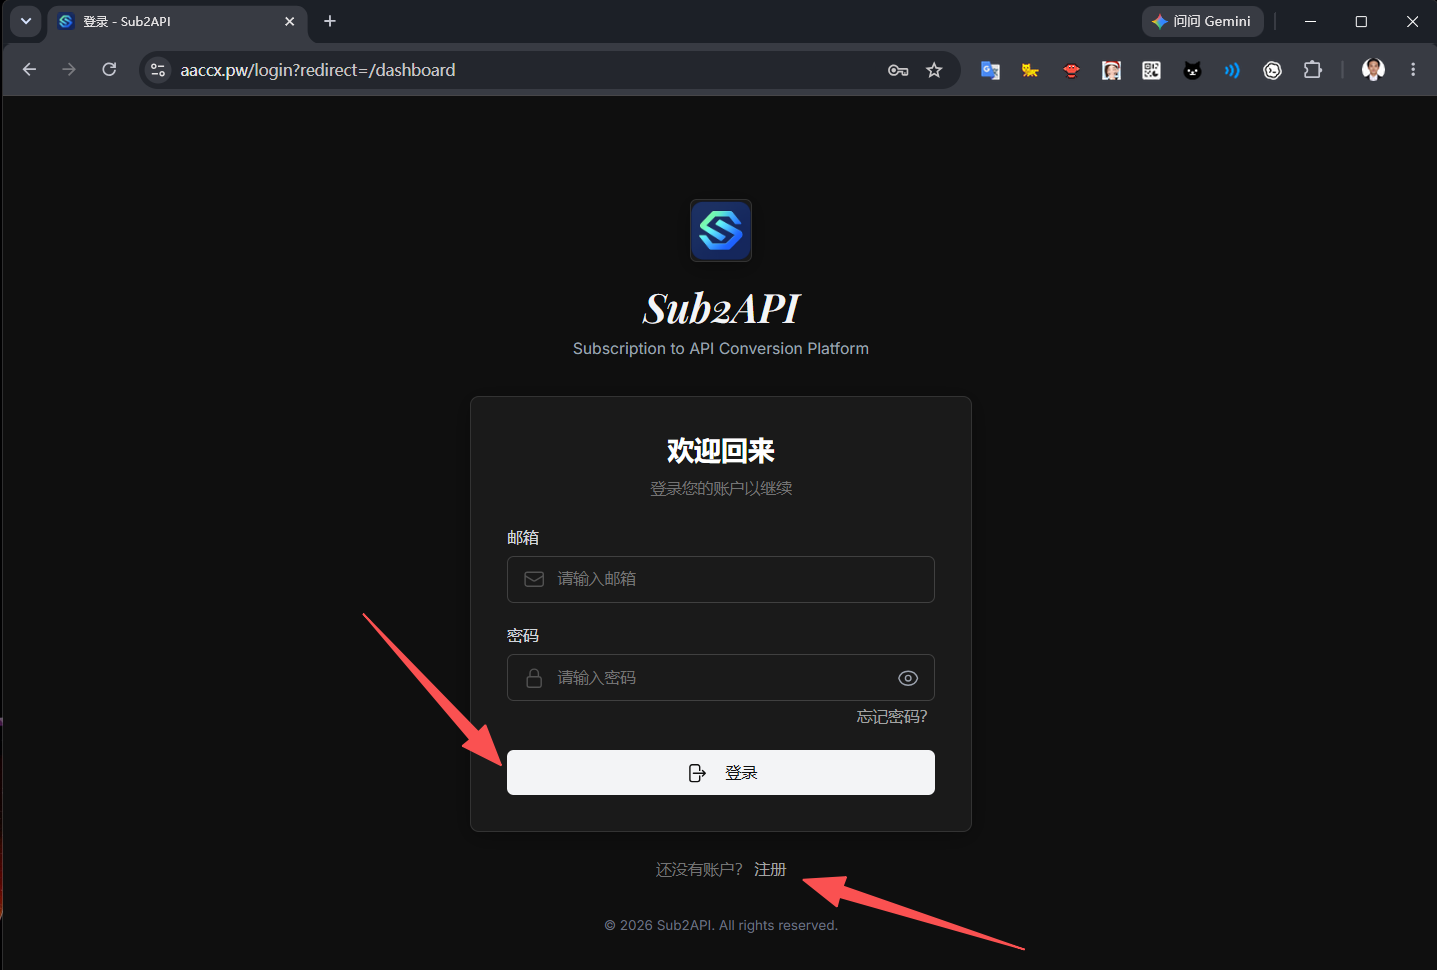
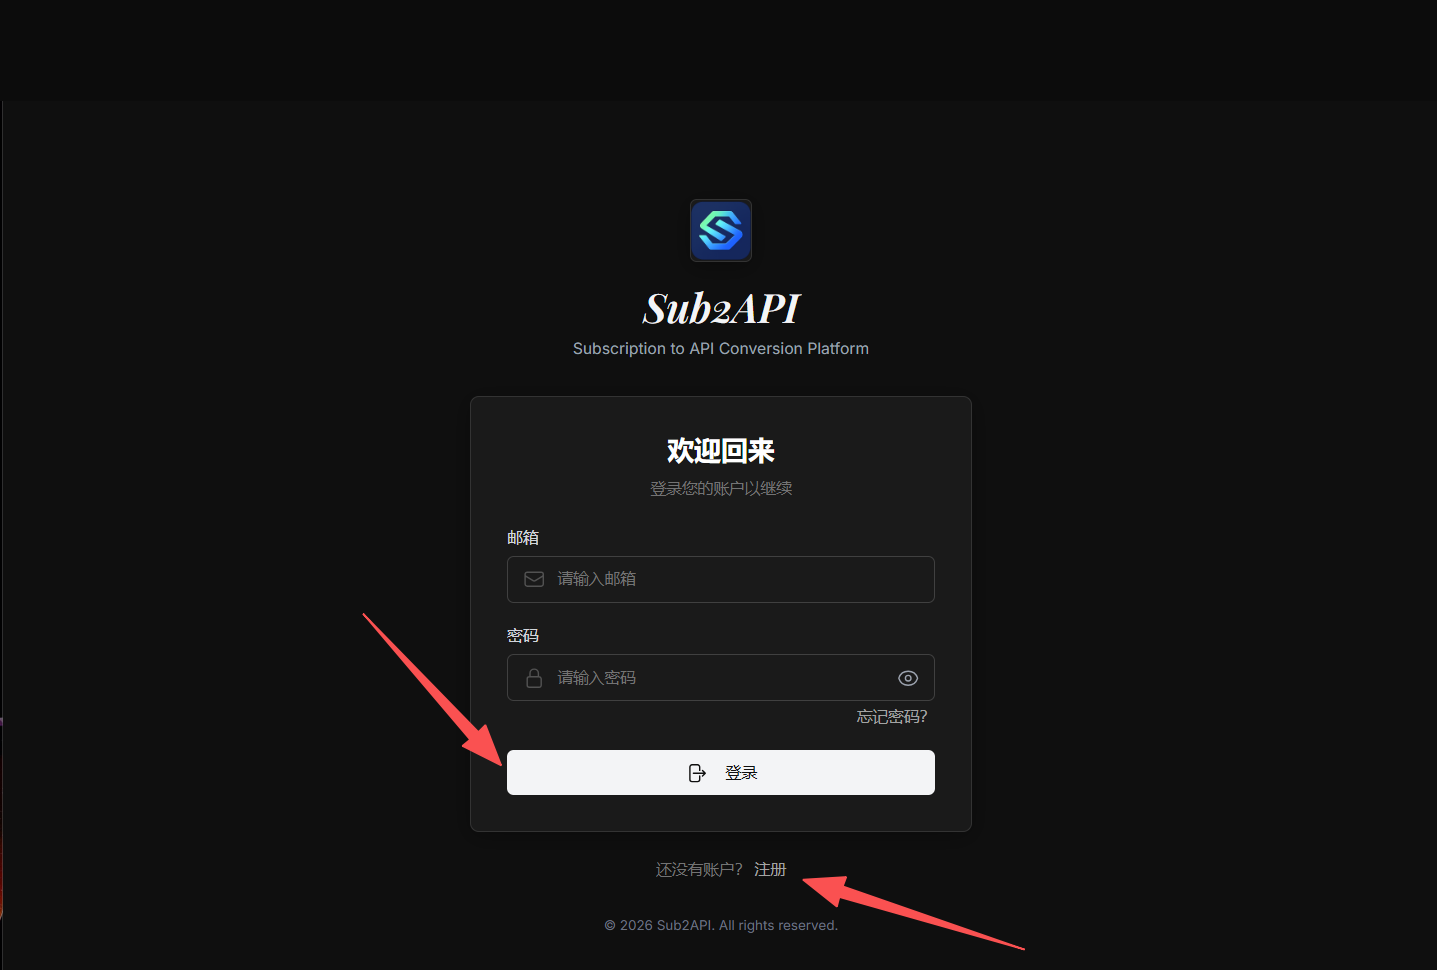
docs: 记录使用教程分支 review

Changed region(s): [[0.0, 0.0, 1.0, 0.1237]]

diff --git a/docs/ai/context/20260621-155228-user-usage-guide-design-plan_CN.md b/docs/ai/context/20260621-155228-user-usage-guide-design-plan_CN.md
@@ -1,0 +1,62 @@
+# 用户面板使用方法页面设计与计划
+
+## 背景
+
+用户希望在登录后的普通用户左侧导航栏增加「使用方法」栏目，用于在 `aaccx.pw` 的 Sub2API 用户面板中展示 8 个使用步骤和 10 张截图。
+
+## 修改边界
+
+- 只修改前端用户面板展示、路由、导航和相关前端测试。
+- 不修改后端接口、数据库、鉴权、支付、订单、订阅、兑换码、API Key 生成或计费逻辑。
+- 不在管理员页面或管理员侧栏的「我的账户」区域增加入口。
+- 页面不新增操作按钮，只展示步骤文字和图片。
+- 图片作为前端静态资源随构建发布，不依赖外部图床。
+
+## 设计
+
+- 新增登录后路由 `/usage-guide`，路由 meta 使用：
+  - 标题：`使用方法`
+  - 描述：`查看从购买订阅到配置 cc-switch 的完整步骤`
+  - `requiresAuth: true`
+  - `requiresAdmin: false`
+- 侧栏只在普通用户 `userNavItems` 中展示「使用方法」，位置放在「兑换」之后、「个人资料」之前。
+- 管理员菜单和管理员个人区不添加该导航项。
+- 页面组件 `frontend/src/views/user/UsageGuideView.vue` 使用现有 `AppLayout`。
+- 页面按 8 个步骤纵向展示，每个步骤包含步骤编号、标题文字和截图区域。
+- 图片对应关系：
+  - 步骤 1：第 1 张图片。
+  - 步骤 2：第 2 张图片。
+  - 步骤 3：第 3 张图片。
+  - 步骤 4：第 4、5 张图片。
+  - 步骤 5：第 6 张图片。
+  - 步骤 6：第 7 张图片。
+  - 步骤 7：第 8、9 张图片。
+  - 步骤 8：第 10 张图片放在步骤文字上方。
+- 样式延续黑白灰用户面板视觉，图片宽度自适应，不在移动端撑破布局。
+
+## 实现计划
+
+1. 新增用户指南页面测试，先确认当前缺少页面、步骤与图片映射。
+2. 新增侧栏源码测试，先确认普通用户导航没有「使用方法」且管理员个人区不会出现。
+3. 复制 10 张用户提供的 PNG 到 `frontend/src/assets/usage-guide/`，使用稳定文件名。
+4. 新建 `UsageGuideView.vue`，用数组声明步骤和图片映射，模板只渲染文字与图片。
+5. 更新 `frontend/src/router/index.ts` 增加 `/usage-guide` 登录路由。
+6. 更新 `frontend/src/components/layout/AppSidebar.vue`，只在 `buildSelfNavItems(true)` 的普通用户菜单中插入「使用方法」。
+7. 更新 `frontend/src/i18n/locales/zh.ts` 和 `frontend/src/i18n/locales/en.ts` 增加导航与页面文案。
+8. 更新 `AGENTS.md` 记录本次用户面板使用方法页面约定。
+9. 运行相关前端测试、类型检查和构建验证。
+
+## 测试计划
+
+- 先运行新增测试确认红灯。
+- 实现后运行：
+  - `pnpm vitest run src/views/user/__tests__/UsageGuideView.spec.ts src/components/layout/__tests__/AppSidebar.spec.ts src/router/__tests__/guards.spec.ts`
+  - `pnpm typecheck`
+  - `pnpm build`
+  - `git diff --check`
+
+## Tradeoff
+
+- 不复用后台自定义 Markdown 页面：当前内容是固定产品引导，代码内静态页面更可控，避免增加后台配置和运行态依赖。
+- 不增加管理员入口：用户明确要求管理员页面不需要添加，管理员仍可直接访问用户路由，但侧栏不提供入口。
+- 不增加跳转按钮：需求只要求展示图片和文字，页面避免引导用户产生误操作。

diff --git a/docs/ai/context/20260621-160558-usage-guide-branch-review-merge-plan_CN.md b/docs/ai/context/20260621-160558-usage-guide-branch-review-merge-plan_CN.md
@@ -1,0 +1,59 @@
+# 使用教程分支提交、Review 与合并计划
+
+## 目标
+
+将当前工作区中用户“使用方法 / Usage Guide”前端功能提交到新的 `codex/` 分支，完成本地 review 和验证后合并回本地 `main`。
+
+## 当前确认
+
+- 当前本地分支为 `main`，本地 `main` 已有多条未推送提交。
+- 当前应入库的有效改动是：
+  - 新增用户使用教程页面 `frontend/src/views/user/UsageGuideView.vue`。
+  - 新增教程截图资产 `frontend/src/assets/usage-guide/*.png`。
+  - 新增 `/usage-guide` 路由。
+  - 在普通用户侧边栏增加“使用方法”入口。
+  - 增加中英文导航和页面标题描述文案。
+  - 增加对应 Vitest 测试。
+- 当前不应入库的文件是本地运行态备份/环境文件：
+  - `.tmp-*.dump`
+  - `.tmp-*.sqlite`
+  - `.tmp-*.sql`
+  - `.tmp-subscription-migration-stamp`
+  - `deploy/.env.scheme-a.runtime`
+- 这些本地文件可能包含数据库内容、运行态配置或敏感信息；本次不提交，改为补充 `.gitignore` 规则。
+
+## 执行方案
+
+1. 从当前本地 `main` 创建新分支 `codex/usage-guide-review-merge-20260621`。
+2. 补充 `.gitignore`：
+   - 忽略根目录 `.tmp-*` 本地迁移备份。
+   - 忽略 `*.dump`、`*.sqlite`。
+   - 忽略 `deploy/.env.*`，但不影响模板文件。
+3. 运行前端相关测试：
+   - `pnpm --dir frontend test:run UsageGuideView AppSidebar`
+   - 如测试暴露当前测试或实现问题，先修复再提交。
+4. 分阶段 review：
+   - 自查 `git diff --stat` 和关键 diff。
+   - 检查路由、侧边栏入口、i18n key、截图引用和测试是否一致。
+   - 使用代码 review 视角列出问题；发现 Critical/Important 则先修复。
+5. 提交应入库改动：
+   - 前端功能文件。
+   - `.gitignore` 安全忽略规则。
+   - 本计划文档和最终结果文档。
+   - `AGENTS.md` 运行记录。
+6. 合并回本地 `main`：
+   - 切回 `main`。
+   - 使用 `--no-ff` 合并新分支，保留合并记录。
+   - 合并后再次运行关键验证。
+
+## 验证标准
+
+- 使用教程测试和侧边栏测试通过。
+- 构建或类型检查若可行则补跑；如因既有问题失败，记录具体原因。
+- `main` 合并后包含新分支提交。
+- 临时 dump/sqlite/env 文件不被提交。
+
+## 风险
+
+- 教程截图较大，需确认全部为前端静态资产且不含敏感密钥。
+- 当前本地 `main` 已与 `origin/main` 分叉较大；本次只做本地分支合并，不推送远端、不创建 PR。

diff --git a/docs/ai/context/20260621-161806-usage-guide-branch-review-merge-result_CN.md b/docs/ai/context/20260621-161806-usage-guide-branch-review-merge-result_CN.md
@@ -1,0 +1,36 @@
+# 使用教程分支 Review 与合并结果
+
+## 分支与提交
+
+- 保留分支：`codex/usage-guide-review-merge-20260621`。
+- 已有功能提交：
+  - `0e084add feat: 新增用户使用方法页面`
+  - `acc11de5 chore: 忽略本地运行备份文件`
+- Review 后补充提交：
+  - 遮挡教程截图顶部浏览器栏、账户邮箱和浏览器个人信息区域。
+  - 强制纳入本次 `docs/ai/context` 计划与结果文档，避免 `AGENTS.md` 引用的上下文只停留在本地忽略文件中。
+
+## Review 结论
+
+- 路由 `/usage-guide` 要求登录，且不要求管理员权限，符合用户侧教程页面定位。
+- 普通用户侧边栏包含「使用方法」入口；管理员个人区未新增该入口。
+- 页面只展示 8 个步骤和 10 张截图，没有引入后端、支付、订阅、兑换码、API Key 或计费逻辑改动。
+- 发现并处理一个隐私风险：原始截图顶部包含浏览器个人信息和一个 QQ 邮箱展示。已在当前资产中遮挡相关区域，保留教程主体内容。
+- `.gitignore` 已补充 `.tmp-*`、`*.dump`、`*.sqlite`、`deploy/.env.*`，避免本地数据库备份和运行态环境文件进入仓库。
+
+## 验证
+
+- `pnpm --dir frontend test:run UsageGuideView AppSidebar`：通过，2 个测试文件、5 个测试。
+- `pnpm --dir frontend typecheck`：通过。
+- `pnpm --dir frontend build`：通过；仍有项目既有 Vite chunk、Browserslist 和 Node deprecation 警告。
+- 视觉抽查：
+  - `step-03-subscription-plans.png`
+  - `step-05-create-api-key.png`
+  - `step-07-cc-switch-edit-provider.png`
+  - `step-07-cc-switch-provider-list.png`
+- 本地备份和运行态环境文件已被 `.gitignore` 忽略，未提交。
+
+## 合并说明
+
+- 本次只做本地分支合并，不推送远端、不创建 PR。
+- 当前本地 `main` 仍与 `origin/main` 存在较大分叉，后续推送前需要单独处理远端同步策略。

diff --git a/docs/ai/context/20260621-160506-user-usage-guide-result_CN.md b/docs/ai/context/20260621-160506-user-usage-guide-result_CN.md
@@ -1,0 +1,42 @@
+# 用户面板使用方法页面结果
+
+## 结果
+
+已在普通用户登录后的左侧导航栏新增「使用方法」入口，路由为 `/usage-guide`。
+
+页面展示 8 个使用步骤和用户提供的 10 张截图：
+
+1. 访问 `aaccx.pw/shop` 页面，点击图中的进入按钮。
+2. 新用户注册，老用户登录。
+3. 选择订阅的页面，选择合适的套餐。
+4. 完成支付后，悠一会给你一个兑换码。
+5. 兑换成功后，去 API Key 页面生成密钥。
+6. 选择分组，并且可以设置高级功能。
+7. 启动 cc-switch，粘贴 API Key 和请求端口。
+8. 保存配置后，重启 Codex，即可使用。
+
+第 4 步展示第 4、5 张截图，第 7 步展示第 8、9 张截图，第 8 步按要求把第 10 张截图放在步骤文字上方。
+
+## 修改边界
+
+- 只修改前端用户面板页面、普通用户侧栏、路由、i18n 文案、测试和静态截图资源。
+- 管理员页面和管理员侧栏未添加「使用方法」入口。
+- 后端、API、支付、订单、订阅、兑换码、API Key、计费和公网 nginx 配置均未修改。
+
+## 关键文件
+
+- `frontend/src/views/user/UsageGuideView.vue`
+- `frontend/src/router/index.ts`
+- `frontend/src/components/layout/AppSidebar.vue`
+- `frontend/src/assets/usage-guide/*.png`
+- `frontend/src/views/user/__tests__/UsageGuideView.spec.ts`
+- `frontend/src/components/layout/__tests__/AppSidebar.spec.ts`
+
+## 验证
+
+- `pnpm vitest run src/views/user/__tests__/UsageGuideView.spec.ts src/components/layout/__tests__/AppSidebar.spec.ts`
+- `pnpm vitest run src/views/user/__tests__/UsageGuideView.spec.ts src/components/layout/__tests__/AppSidebar.spec.ts src/router/__tests__/guards.spec.ts`
+- `pnpm typecheck`
+- `pnpm build`
+
+以上命令均已通过。构建输出仍包含项目既有的 Vite chunk 警告、Browserslist 数据提示和 Node deprecation 警告，不影响构建结果。

diff --git a/AGENTS.md b/AGENTS.md
@@ -50,3 +50,4 @@
 - 2026-06-21：已在普通用户面板新增「使用方法」页面 `/usage-guide`，左侧导航仅普通用户可见，管理员页面和管理员侧栏不新增入口；页面只展示 8 个步骤和用户提供的 10 张截图，后端、支付、订阅、兑换码、API Key、计费和公网配置未修改。结果见 `docs/ai/context/20260621-160506-user-usage-guide-result_CN.md`。
 - 2026-06-21：已调查当前生图能力与计费：代码支持 `/v1/images/generations`、`/v1/images/edits` 和 `/v1/responses` 的 `image_generation` 工具，但当前三个在售订阅分组 `codex-pool-19-usd`、`codex-pool-29-usd`、`codex-pool-49-usd` 的 `allow_image_generation=false`，因此当前没有在售档位可用生图；若启用则按图片张数、尺寸和倍率消耗订阅日额度。结果见 `docs/ai/context/20260621-155950-image-generation-access-billing-current-state_CN.md`。
 - 2026-06-21：已将手机号迁移用户 `15706598243@phone.com` 的身份字段更新为真实邮箱 `15706598243@163.com`，同步修改 `users.email`、`users.username` 和 `auth_identities.provider_subject`；用户 id、API Key、订阅、余额、用量、密码 hash、角色和状态均未改动，并已广播该用户 API Key auth cache 失效。结果见 `docs/ai/context/20260621-155951-phone-user-15706598243-real-email-update-result_CN.md`。
+- 2026-06-21：已将当前工作区使用教程前端改动整理到分支 `codex/usage-guide-review-merge-20260621` 并合并回本地 `main`；review 后遮挡教程截图中的浏览器个人信息和用户邮箱，补充 `.gitignore` 防止本地 dump/sqlite/env 进入仓库；验证包含 UsageGuide/AppSidebar 测试、前端 typecheck 和 build。结果见 `docs/ai/context/20260621-161806-usage-guide-branch-review-merge-result_CN.md`。
